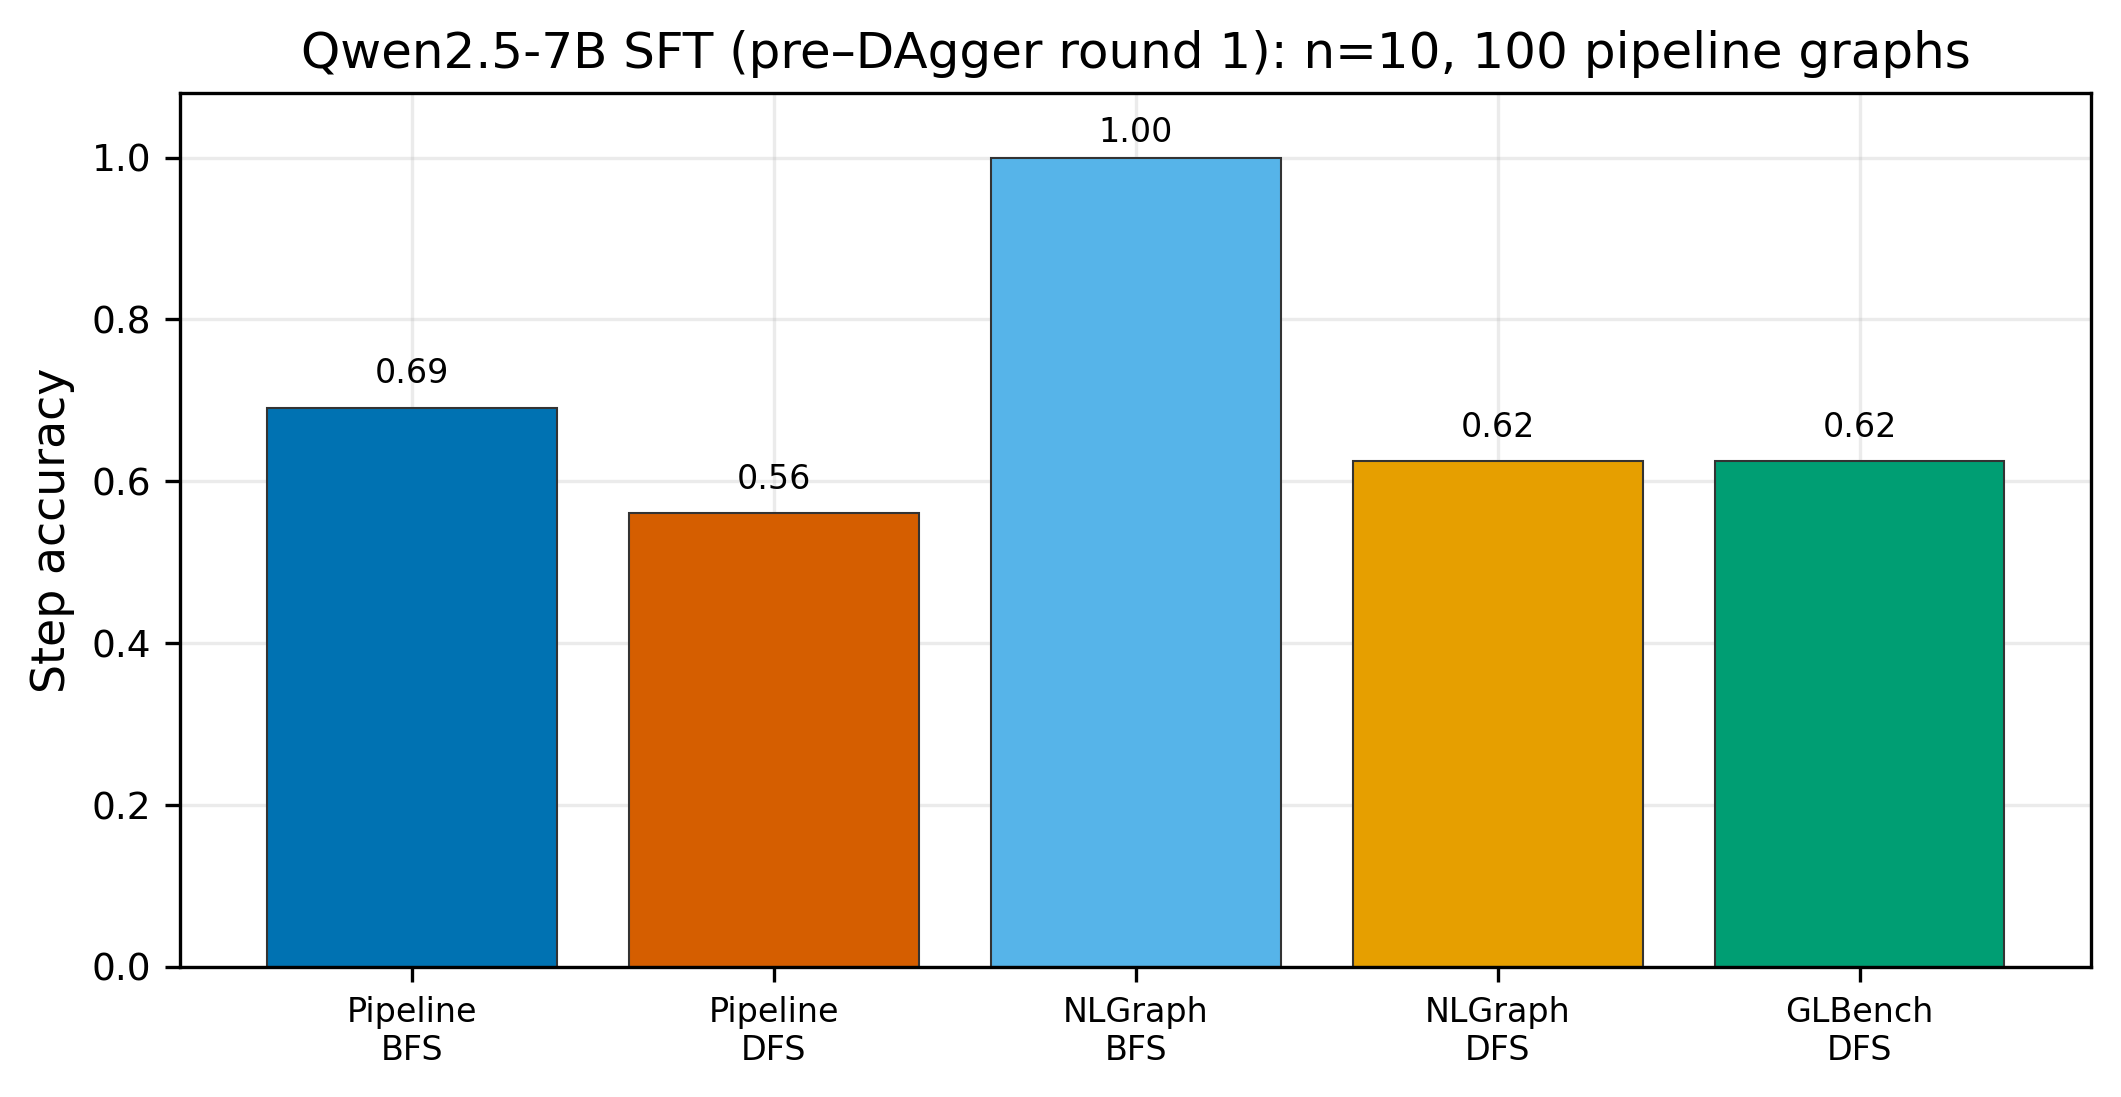
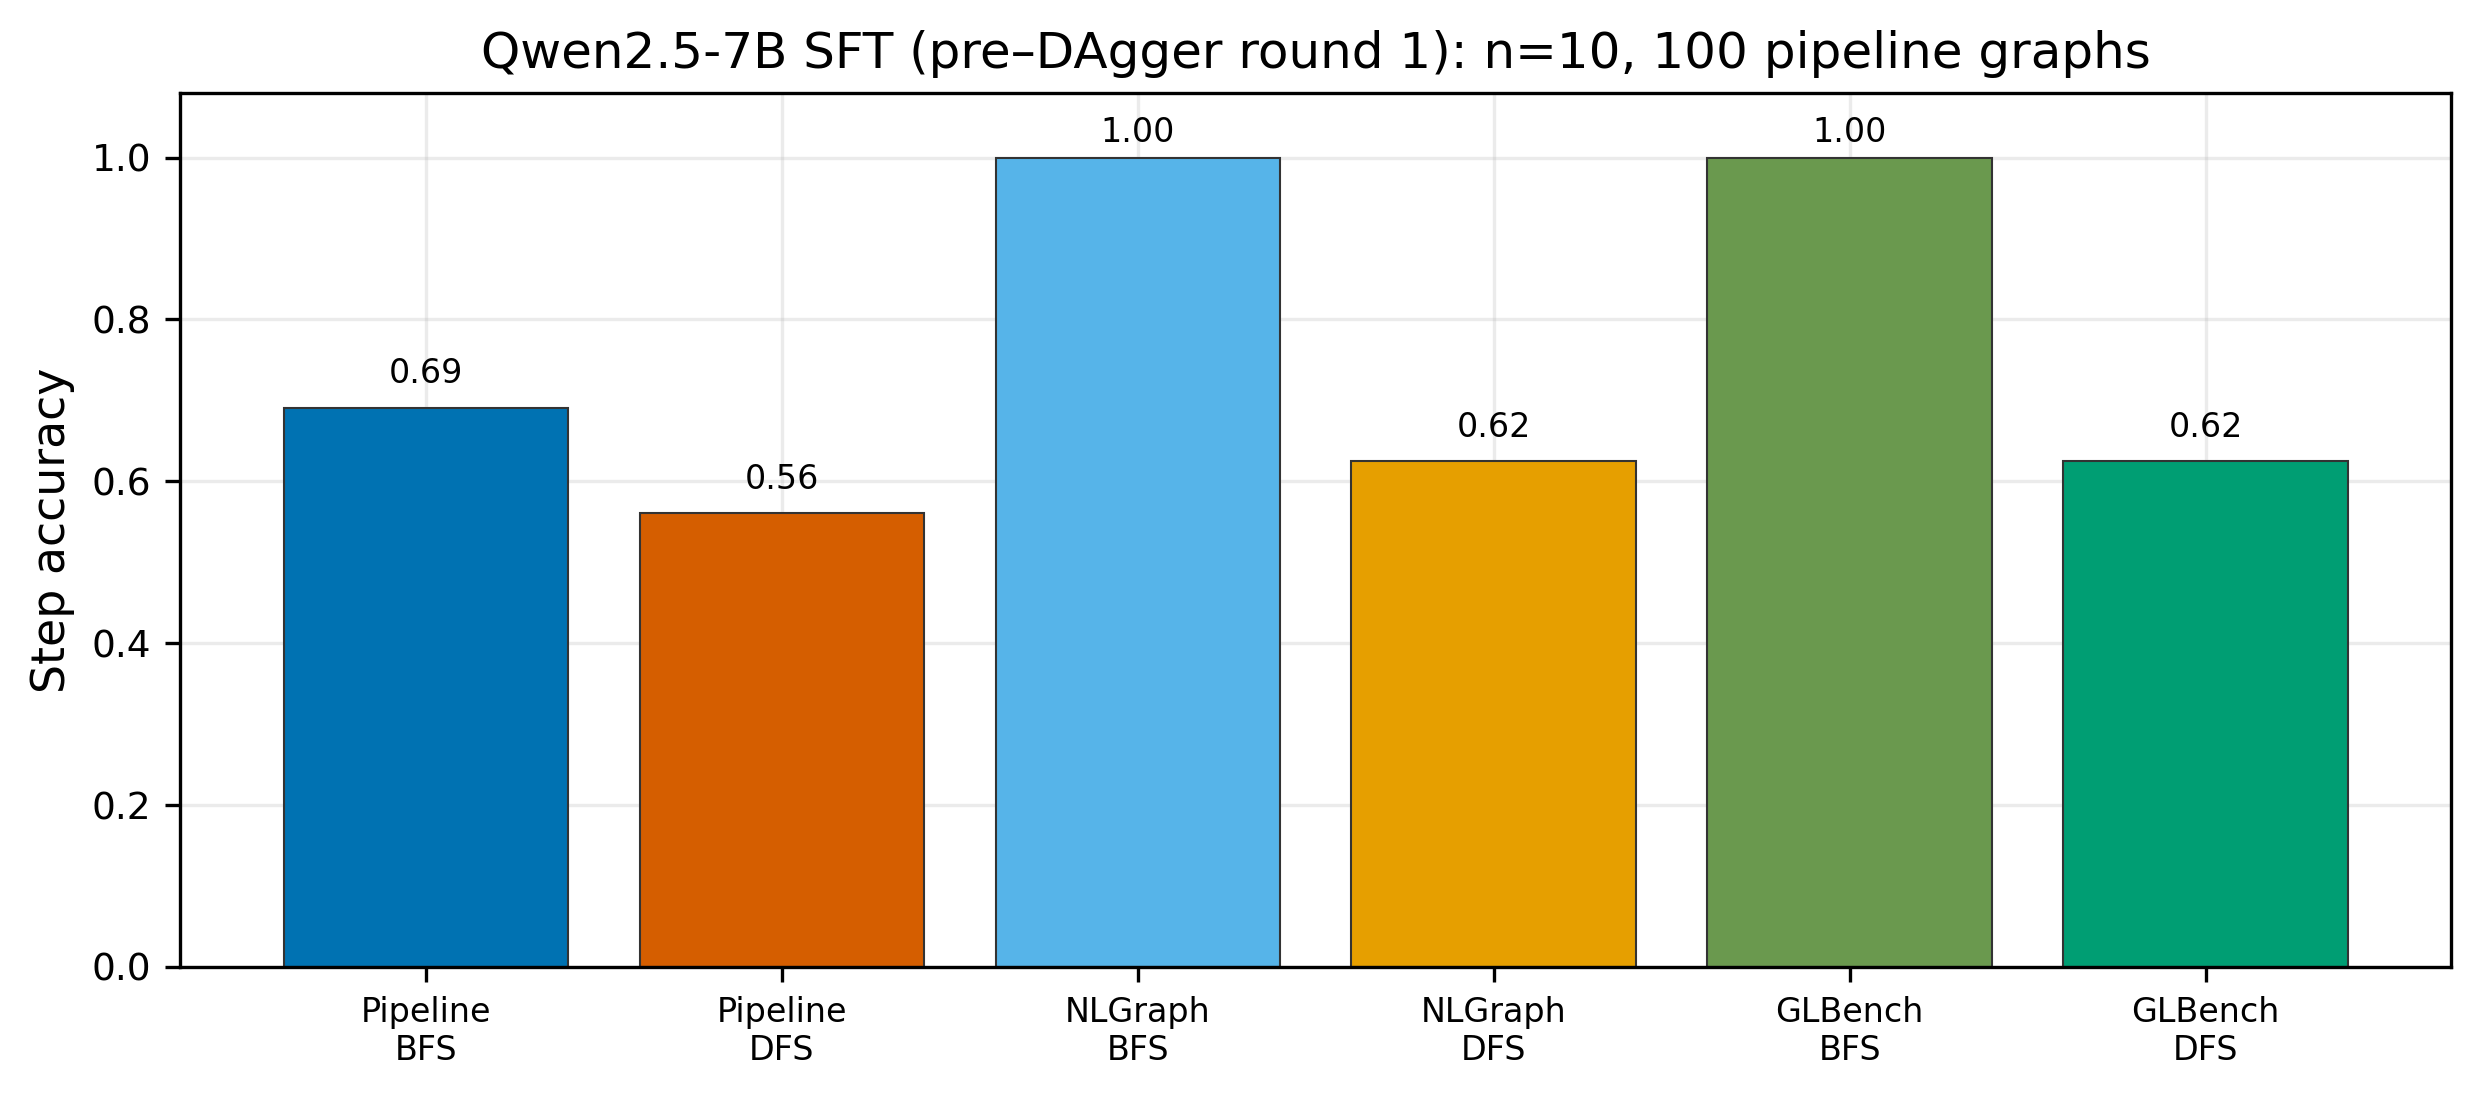
R1 figure: add GLBench BFS bar; GLBench BFS metrics from bundled gl_bfs reference

diff --git a/plots/paper_r1_n10_figures.py b/plots/paper_r1_n10_figures.py
@@ -46,20 +46,23 @@ def fig_step_accuracy_bundle(*, root: Path, out_base: Path) -> None:
     main_d = _step_acc(_load_json(dfs / f"metrics_{tag_d}.json"))
     nl_b = _step_acc(_load_json(bfs / f"nlgraph_{tag_b}_operation_accuracy.json"))
     nl_d = _step_acc(_load_json(dfs / f"nlgraph_{tag_d}_operation_accuracy.json"))
-    gl_path = dfs / f"glbench_{tag_d}_operation_accuracy.json"
-    gl_d = _step_acc(_load_json(gl_path)) if gl_path.is_file() else float("nan")
+    gl_path_b = bfs / f"glbench_{tag_b}_operation_accuracy.json"
+    gl_path_d = dfs / f"glbench_{tag_d}_operation_accuracy.json"
+    gl_b = _step_acc(_load_json(gl_path_b)) if gl_path_b.is_file() else float("nan")
+    gl_d = _step_acc(_load_json(gl_path_d)) if gl_path_d.is_file() else float("nan")
 
     labels = [
         "Pipeline\nBFS",
         "Pipeline\nDFS",
         "NLGraph\nBFS",
         "NLGraph\nDFS",
+        "GLBench\nBFS",
         "GLBench\nDFS",
     ]
-    vals = [main_b, main_d, nl_b, nl_d, gl_d]
-    colors = ["#0072B2", "#D55E00", "#56B4E9", "#E69F00", "#009E73"]
+    vals = [main_b, main_d, nl_b, nl_d, gl_b, gl_d]
+    colors = ["#0072B2", "#D55E00", "#56B4E9", "#E69F00", "#6A994E", "#009E73"]
 
-    fig, ax = plt.subplots(figsize=(7.2, 3.8))
+    fig, ax = plt.subplots(figsize=(8.4, 3.8))
     x = range(len(labels))
     bars = ax.bar(list(x), vals, color=colors, edgecolor="#333333", linewidth=0.5)
     for i, (v, b) in enumerate(zip(vals, bars)):

diff --git a/paper/FinalReport.tex b/paper/FinalReport.tex
@@ -231,12 +231,13 @@ Pipeline inference uses 100 graphs; bundled NLGraph/GLBench adapter scores use t
 
 Figure~\ref{fig:r1-step} compares main-task step accuracy with adapter scores side-by-side.
 BFS reaches higher pipeline step accuracy than DFS on this split (0.69 vs.\ 0.56).
-GLBench is only available for DFS in the committed bundle; the BFS slot is omitted.
+\textbf{GLBench BFS} uses the single \texttt{gl\_bfs\_001} row in \texttt{data/benchmarks/glbench\_eval.json}; the checked-in \texttt{glbench\_*} JSON replays gold operations as predictions so the metric file matches the pipeline schema (replace with real model predictions from \texttt{run\_pipeline.sh} when available).
+\textbf{GLBench DFS} is model-evaluated on the committed run (0.625 on eight steps).
 
 \begin{figure}[t]
   \centering
   \includegraphics[width=\linewidth]{figures/r1_n10_qwen/fig_r1_step_accuracy_main_and_benchmarks.pdf}
-  \caption{Qwen2.5-7B-Instruct with SFT adapter: pipeline vs.\ NLGraph vs.\ GLBench (DFS only) before DAgger round~1.}
+  \caption{Qwen2.5-7B-Instruct with SFT adapter: pipeline vs.\ NLGraph vs.\ GLBench (BFS reference trace + DFS model eval) before DAgger round~1.}
   \label{fig:r1-step}
 \end{figure}
 
@@ -347,7 +348,7 @@ This pattern supports the broader error-collection behavior in \texttt{training/
     \toprule
     Setting & Step Acc. & Failure Rate & Mean First Error & NLGraph & GLBench & Notes \\
     \midrule
-    BFS SFT (pre--DAgger) & 0.691 & 0.309 & 8.3 & 1.000* & -- & \texttt{bfs\_pre\_sft/} \\
+    BFS SFT (pre--DAgger) & 0.691 & 0.309 & 8.3 & 1.000* & 1.000$^\dagger$ & \texttt{bfs\_pre\_sft/} \\
     DFS SFT (pre--DAgger) & 0.560 & 0.440 & 2.1 & 1.000* & 0.625* & \texttt{dfs\_pre\_sft/} \\
     \midrule
     \multicolumn{7}{l}{\emph{Earlier iterative pre/post snapshot (different tag / run roots; see archive figures):}} \\
@@ -358,7 +359,8 @@ This pattern supports the broader error-collection behavior in \texttt{training/
     \bottomrule
   \end{tabular}
   \vspace{2pt}
-  \footnotesize{*NLGraph/GLBench here use the small bundled benchmark shards ($n_{\mathrm{samples}}{=}1$ in the committed JSON); interpret as adapter smoke tests, not benchmark leaderboard estimates.}
+  \footnotesize{*NLGraph/GLBench here use the small bundled benchmark shards ($n_{\mathrm{samples}}{=}1$ in the committed JSON); interpret as adapter smoke tests, not benchmark leaderboard estimates.
+  $^\dagger$GLBench BFS value is from the bundled \texttt{gl\_bfs\_001} reference trace with gold-as-predicted scoring (schema placeholder); replace with model \texttt{glbench\_*} outputs for a true SFT policy score.}
 \end{table*}
 
 \section{Alignment With Proposal and Development History}